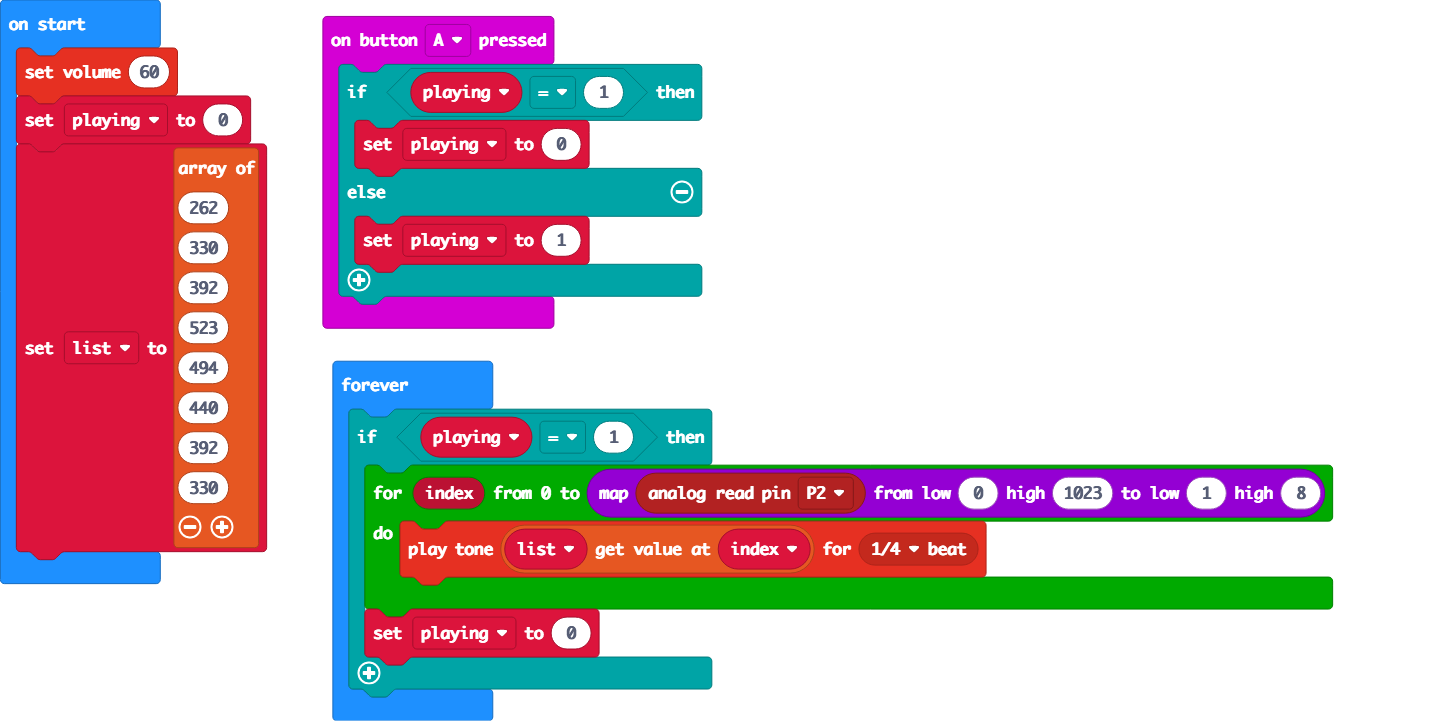
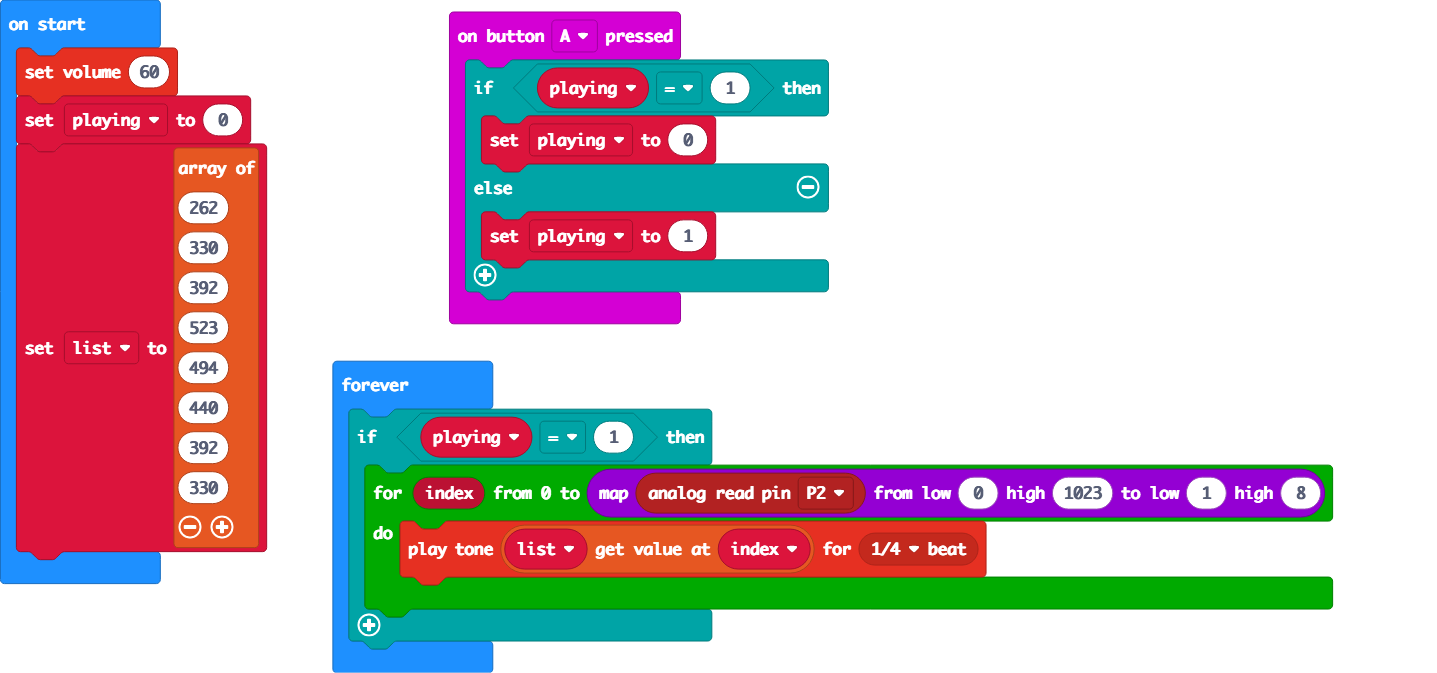
Fixed silly mistake in previous version.

diff --git a/main.ts b/main.ts
@@ -14,6 +14,5 @@ basic.forever(function () {
         for (let index = 0; index <= Math.map(pins.analogReadPin(AnalogPin.P2), 0, 1023, 1, 8); index++) {
             music.playTone(list[index], music.beat(BeatFraction.Quarter))
         }
-        playing = 0
     }
 })
